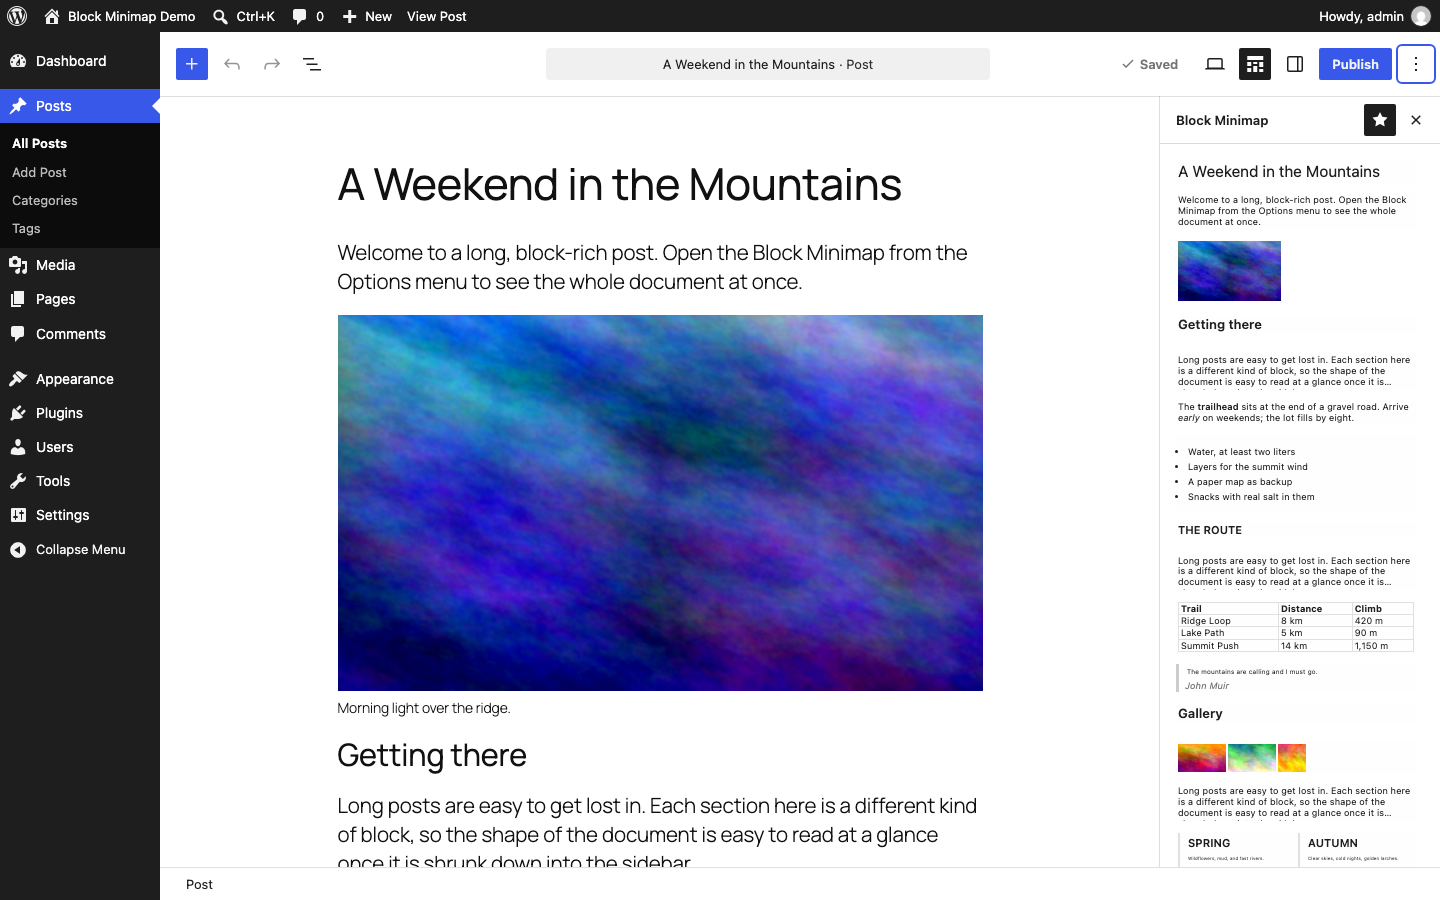
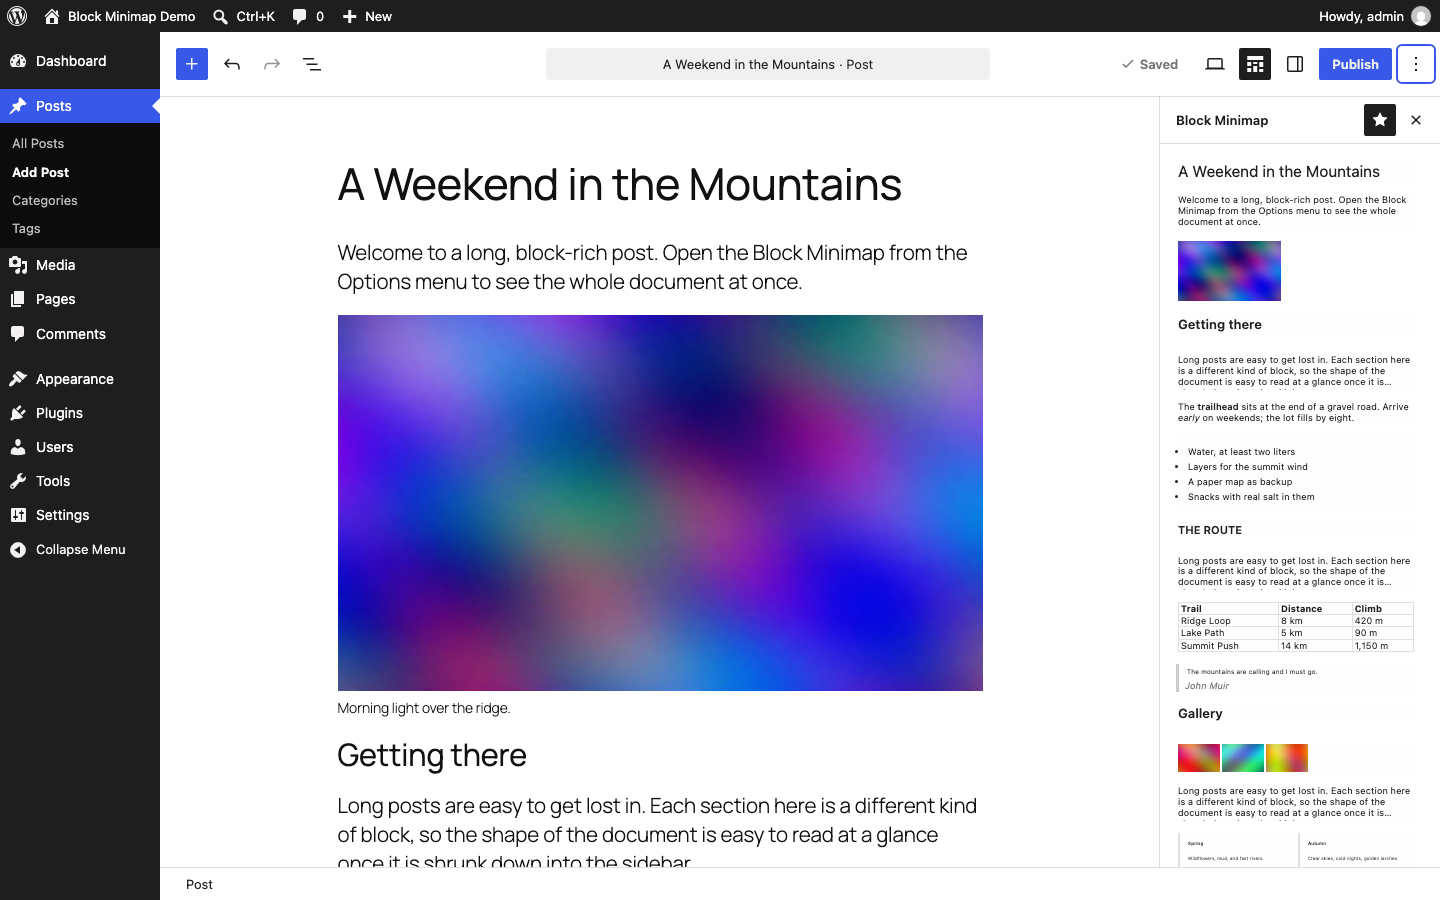
Rerecord the README media to show scroll sync
The screencast predated scroll sync, so it showed the canvas and the
minimap scrolling independently. Record it again on top of master so
it shows the minimap following the canvas and the canvas following
the minimap, and describe that in the caption.

Claude-Session: https://claude.ai/code/session_01MuKRdmzieUEH1owmgry6zo

diff --git a/README.md b/README.md
@@ -10,9 +10,9 @@
 
 ## Screencast
 
-Scrolling a long post, then scrolling the minimap to see the whole document at once.
+The minimap and the editor scroll together: scrolling the post moves the minimap along with it, and scrolling the minimap moves the post.
 
-![Screencast of a long post scrolling in the block editor with the Block Minimap open in the sidebar](.github/media/screencast.gif)
+![Screencast of a long post scrolling down in the block editor with the Block Minimap following along in the sidebar, then the minimap scrolling back up and the post following it](.github/media/screencast.gif)
 
 ## Requirements
 
